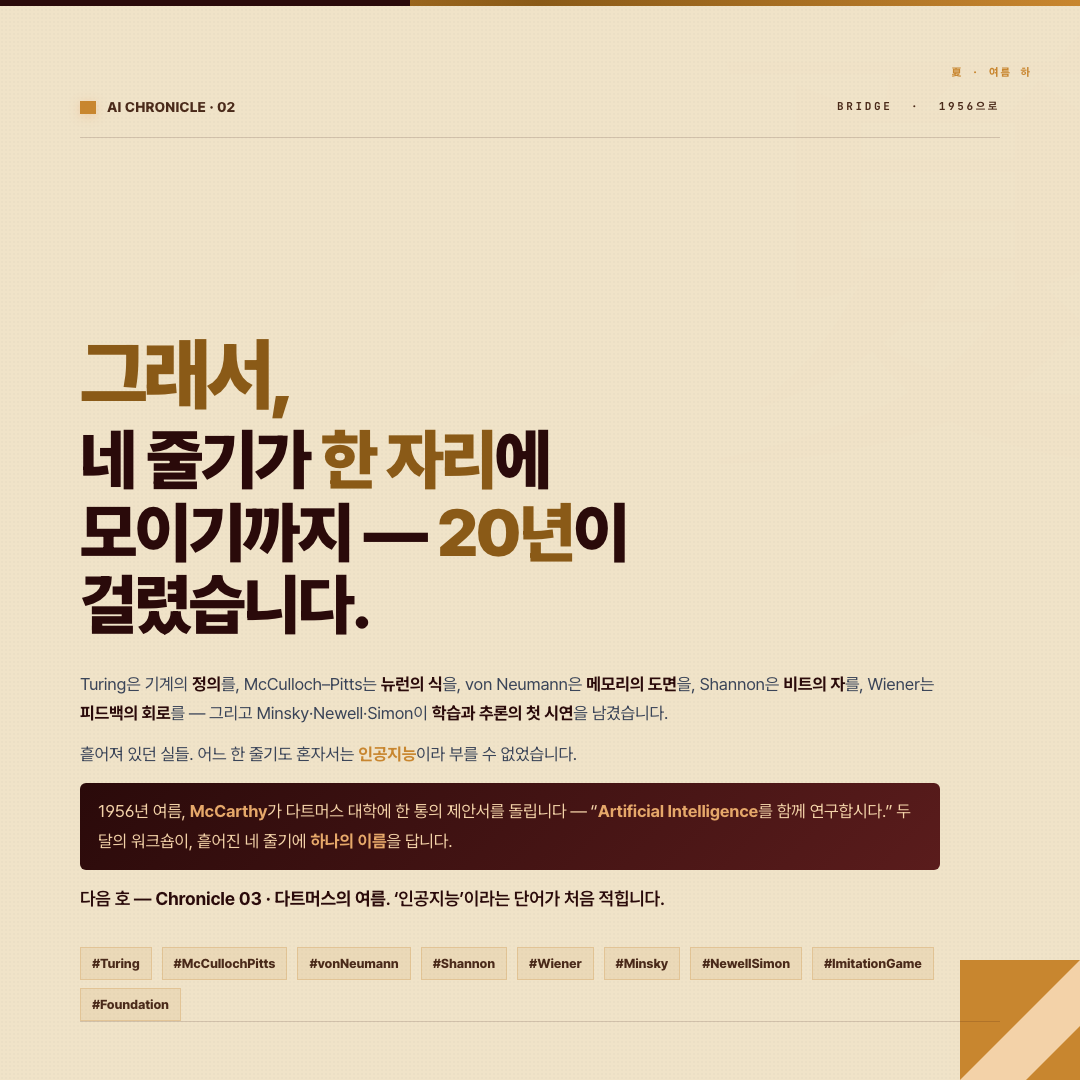
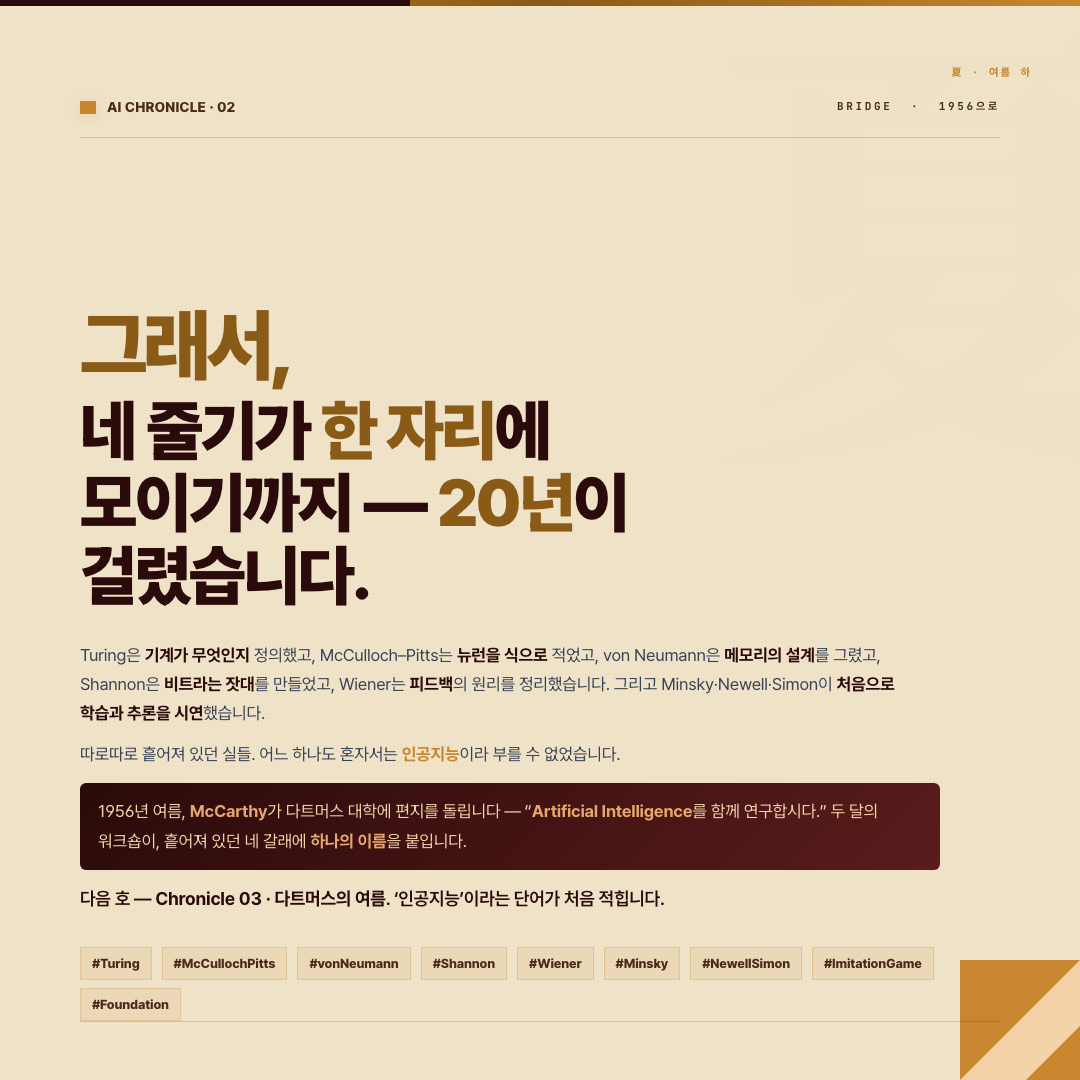
fix(chronicle 01·02): 본문 톤 다듬기 — 번역투/한자어 명사 연결을 자연스러운 문장으로

diff --git a/chronicle-2-cards-tape/06-wiener.html b/chronicle-2-cards-tape/06-wiener.html
@@ -20,10 +20,10 @@
     <div class="split" style="grid-template-columns:1.1fr 1fr; gap:22px; margin-top:14px;">
       <div class="left">
         <p class="body-sm" style="font-size:14px; line-height:1.65;">같은 1948년, MIT의 수학자 <b>Norbert Wiener</b>가 책 한 권을 냅니다 — 『<em>Cybernetics: Or Control and Communication in the Animal and the Machine</em>』.</p>
-        <p class="body-sm" style="font-size:14px; line-height:1.65; margin-top:8px;">핵심은 <em>피드백 루프</em>. 출력의 일부를 다시 입력으로 돌려, 기계가 <b>자기 행동의 결과</b>를 보고 다음을 고치게 합니다. 미사일 추적기·온도 조절기·심장박동 — 살아있는 것과 기계가 같은 회로 위에서 만났습니다.</p>
+        <p class="body-sm" style="font-size:14px; line-height:1.65; margin-top:8px;">핵심은 <em>피드백 루프</em>. 결과의 일부를 다시 입력으로 돌려, 기계가 <b>자기가 한 일의 결과</b>를 보고 다음 행동을 고치게 합니다. 미사일 추적기·온도 조절기·심장박동 — 생명과 기계가 같은 원리로 묶였습니다.</p>
         <div style="margin-top:10px; padding:9px 12px; background:rgba(42,10,10,0.07); border-left:3px solid var(--ink-soft);">
           <div style="font-size:9.5px; letter-spacing:1.5px; color:var(--ink-soft); font-weight:700;">제목 · 어원</div>
-          <div style="font-size:12px; line-height:1.5;"><em>Cybernetics</em> = 그리스어 <em>κυβερνήτης</em>(키잡이). 배의 키를 잡는 사람처럼, 기계가 자신을 조향한다는 뜻.</div>
+          <div style="font-size:12px; line-height:1.5;"><em>Cybernetics</em>는 그리스어 <em>κυβερνήτης</em>(키잡이)에서 왔습니다. 배의 키를 잡듯, 기계가 자기를 직접 조종한다는 뜻.</div>
         </div>
       </div>
       <div class="right">
@@ -33,7 +33,7 @@
     </div>
 
     <p class="body-sm" style="font-size:14px; line-height:1.6; margin-top:12px; color:var(--ink-soft);">
-      Shannon이 신호를 <em>측정</em>했다면, Wiener는 신호를 <em>되먹였습니다</em>. 두 1948년이 — 1956년 다트머스의 두 다리.
+      Shannon이 신호를 <em>잴 수 있게</em> 했다면, Wiener는 신호를 <em>다시 입력으로 돌려</em> 보냈습니다. 1948년의 두 책이 — 1956년 다트머스로 가는 두 길이 됩니다.
     </p>
 
     <div style="margin-top:14px; display:grid; grid-template-columns:repeat(3, 1fr); gap:10px;">

diff --git a/chronicle-2-cards-tape/09-bridge.html b/chronicle-2-cards-tape/09-bridge.html
@@ -26,13 +26,13 @@
     </h1>
 
     <p class="closing">
-      Turing은 기계의 <b>정의</b>를, McCulloch–Pitts는 <b>뉴런의 식</b>을, von Neumann은 <b>메모리의 도면</b>을, Shannon은 <b>비트의 자</b>를, Wiener는 <b>피드백의 회로</b>를 — 그리고 Minsky·Newell·Simon이 <b>학습과 추론의 첫 시연</b>을 남겼습니다.
+      Turing은 <b>기계가 무엇인지</b> 정의했고, McCulloch–Pitts는 <b>뉴런을 식으로</b> 적었고, von Neumann은 <b>메모리의 설계</b>를 그렸고, Shannon은 <b>비트라는 잣대</b>를 만들었고, Wiener는 <b>피드백</b>의 원리를 정리했습니다. 그리고 Minsky·Newell·Simon이 <b>처음으로 학습과 추론을 시연</b>했습니다.
     </p>
     <p class="closing" style="margin-top:12px;">
-      흩어져 있던 실들. 어느 한 줄기도 혼자서는 <em>인공지능</em>이라 부를 수 없었습니다.
+      따로따로 흩어져 있던 실들. 어느 하나도 혼자서는 <em>인공지능</em>이라 부를 수 없었습니다.
     </p>
     <p class="closing" style="margin-top:14px; padding:14px 18px; background:linear-gradient(135deg, #2a0a0a 0%, #5a1c1c 100%); color:#f3d2a8; border-radius:6px;">
-      1956년 여름, <em style="color:#e6a86a;">McCarthy</em>가 다트머스 대학에 한 통의 제안서를 돌립니다 — “<em style="color:#e6a86a;">Artificial Intelligence</em>를 함께 연구합시다.” 두 달의 워크숍이, 흩어진 네 줄기에 <em style="color:#e6a86a;">하나의 이름</em>을 답니다.
+      1956년 여름, <em style="color:#e6a86a;">McCarthy</em>가 다트머스 대학에 편지를 돌립니다 — “<em style="color:#e6a86a;">Artificial Intelligence</em>를 함께 연구합시다.” 두 달의 워크숍이, 흩어져 있던 네 갈래에 <em style="color:#e6a86a;">하나의 이름</em>을 붙입니다.
     </p>
     <p class="closing" style="margin-top:14px; font-size:18px; color:var(--navy); font-weight:600;">
       다음 호 — <b>Chronicle 03 · 다트머스의 여름</b>. ‘인공지능’이라는 단어가 처음 적힙니다.

diff --git a/chronicle-2-cards-tape/05-shannon.html b/chronicle-2-cards-tape/05-shannon.html
@@ -24,7 +24,7 @@
       </div>
       <div class="right">
         <p class="body-sm" style="font-size:14px; line-height:1.65;">벨 연구소의 32살 수학자가 한 논문을 발표합니다 — 「A Mathematical Theory of Communication」. 그 안에서 그는 ‘<em>정보</em>’를 처음으로 측정 가능한 양으로 정의합니다.</p>
-        <p class="body-sm" style="font-size:14px; line-height:1.65; margin-top:8px;">단위는 <b>비트(bit)</b>. 동전의 앞·뒤, 0·1, 예·아니오. 이 한 단위로 음악·사진·언어 — 세상의 모든 신호를 같은 자에 올릴 수 있게 됩니다.</p>
+        <p class="body-sm" style="font-size:14px; line-height:1.65; margin-top:8px;">단위는 <b>비트(bit)</b>. 동전의 앞뒤, 0과 1, 예와 아니오. 이 한 단위만 있으면 음악도 사진도 글도 — 세상 어떤 신호든 같은 잣대로 잴 수 있게 됩니다.</p>
         <div style="margin-top:10px; padding:9px 12px; background:rgba(200,134,47,0.10); border-left:3px solid var(--brand);">
           <div style="font-size:9.5px; letter-spacing:1.5px; color:var(--brand-deep); font-weight:700;">또 하나 · 1937</div>
           <div style="font-size:12px; line-height:1.5; color:var(--ink-soft);">Shannon은 11년 앞서 석사 논문에서 <b>Boole의 논리</b>를 <em>전기 스위치 회로</em>에 매핑했습니다. 0/1과 트랜지스터의 결혼식 — 그 신부였습니다.</div>
@@ -33,7 +33,7 @@
     </div>
 
     <p class="body-sm" style="font-size:14px; line-height:1.6; margin-top:12px; color:var(--ink-soft);">
-      Boole의 1854 논리, McCulloch–Pitts의 1943 뉴런, Turing의 1936 테이프 — 세 흐름이 모두 <em>비트 위에서</em> 합류합니다. 디지털 시대의 첫 글자.
+      Boole의 1854년 논리, McCulloch–Pitts의 1943년 뉴런, Turing의 1936년 테이프 — 세 흐름이 모두 <em>비트라는 한 단위</em> 위에서 만납니다. 디지털 시대의 첫 글자.
     </p>
 
     <div style="margin-top:14px; display:grid; grid-template-columns:repeat(3, 1fr); gap:10px;">

diff --git a/chronicle-2-cards-tape/07-imitation.html b/chronicle-2-cards-tape/07-imitation.html
@@ -24,7 +24,7 @@
           “‘<b>기계가 생각할 수 있는가</b>’라는 질문은 너무 의미 없습니다. 다른 질문으로 바꿉시다.”
           <div style="font-size:11px; margin-top:5px; opacity:0.6; font-style:normal;">— Turing, 1950</div>
         </div>
-        <p class="body-sm" style="font-size:14px; line-height:1.65; margin-top:10px;">대신 그는 <b>Imitation Game</b>을 제안합니다. 심판이 두 ‘상대’와 텍스트로 대화한다 — 한 쪽은 사람, 한 쪽은 기계. 심판이 누가 누구인지 <em>맞추지 못한다면</em>, 그 기계는 ‘생각하는 것과 구별 불가능’입니다.</p>
+        <p class="body-sm" style="font-size:14px; line-height:1.65; margin-top:10px;">대신 그는 <b>Imitation Game</b>을 제안합니다. 심판이 두 상대와 글로만 대화합니다 — 한쪽은 사람, 한쪽은 기계. 심판이 누가 누구인지 <em>가려내지 못한다면</em>, 그 기계는 ‘생각하는 것과 다를 게 없다’는 뜻입니다.</p>
       </div>
       <div class="right">
         <!-- Imitation Game 다이어그램 SVG -->
@@ -67,7 +67,7 @@
       </div>
       <div style="padding:11px 13px; background:rgba(255,255,255,0.55); border-top:2px solid var(--ink-mid);">
         <div style="font-size:9.5px; letter-spacing:1.5px; color:var(--ink-mid); font-weight:700;">DETAIL</div>
-        <div style="font-size:12px; line-height:1.5; color:var(--ink);">‘러브레이스의 반론’(1843)에 정면으로 답한 절(節)이 있습니다. <b>Note G</b>에 대한 113년 뒤의 응답.</div>
+        <div style="font-size:12px; line-height:1.5; color:var(--ink);">‘러브레이스의 반론’(1843)에 정면으로 답한 대목이 있습니다. <b>Note G</b>에 대한 113년 뒤의 답.</div>
       </div>
       <div style="padding:11px 13px; background:linear-gradient(135deg, #2a0a0a, #5a1c1c); color:#f3d2a8;">
         <div style="font-size:9.5px; letter-spacing:1.5px; color:#e6a86a; font-weight:700;">ECHO</div>

diff --git a/chronicle-1-cards-cogwheel/07-logic.html b/chronicle-1-cards-cogwheel/07-logic.html
@@ -33,12 +33,12 @@
     <div style="margin-top:14px; padding:12px 16px; background:linear-gradient(135deg, #2a0a0a 0%, #5a1c1c 100%); color:#f3d2a8; border-radius:6px;">
       <div style="font-size:10.5px; letter-spacing:0.18em; color:#e6a86a; font-weight:800;">왜 중요했나</div>
       <div style="font-size:13.5px; line-height:1.6; margin-top:6px;">
-        톱니바퀴는 <b style="color:#fff5e1;">계산</b>은 했지만 <b style="color:#fff5e1;">추론</b>은 하지 못했습니다. Boole과 Frege는 — <em style="color:#e6a86a; font-style:italic;">추론 자체를 계산으로 바꿀 수 있다</em>는 가능성을 열었습니다. 기계가 아직 없을 뿐, 언어는 준비됐습니다.
+        톱니바퀴는 <b style="color:#fff5e1;">계산</b>은 했지만 <b style="color:#fff5e1;">생각하는 일</b>은 못 했습니다. Boole과 Frege는 — <em style="color:#e6a86a; font-style:italic;">생각도 계산으로 바꿀 수 있다</em>는 가능성을 열었습니다. 기계는 아직 없었지만, 그 기계가 쓸 ‘언어’는 미리 준비된 셈입니다.
       </div>
     </div>
 
     <p class="body-sm" style="font-size:13.5px; line-height:1.55; margin-top:10px; color:var(--ink-soft);">
-      이 두 책 사이의 25년이, 다음 시대의 <em>설계도면</em>이 됩니다. ↩ Series LINGUA 09에서 다시 만나는 이름들입니다.
+      이 두 책 사이의 25년이 다음 시대의 <em>설계도</em>가 됩니다. ↩ Series LINGUA 09에서 다시 만나는 이름들입니다.
     </p>
 
     <div style="margin-top:14px; display:grid; grid-template-columns:repeat(3, 1fr); gap:10px;">

diff --git a/chronicle-1-cards-cogwheel/04-jacquard.html b/chronicle-1-cards-cogwheel/04-jacquard.html
@@ -20,7 +20,7 @@
     <div class="split" style="grid-template-columns:1.2fr 1fr; gap:20px; margin-top:14px;">
       <div class="left">
         <p class="body-sm" style="font-size:14px; line-height:1.65;">리옹의 직물공 자카르가 직조기에 <b>구멍 뚫린 카드 묶음</b>을 매답니다. 카드 한 장이 한 줄의 패턴을 결정합니다 — 구멍이 있으면 실이 올라가고, 없으면 내려갑니다.</p>
-        <p class="body-sm" style="font-size:14px; line-height:1.65; margin-top:8px;">한 사람의 마스터 직공이 한 달 걸리던 자수를, 카드를 갈아 끼우는 것만으로 다른 패턴이 나왔습니다. <em>도구가 데이터를 따라가는 첫 사례</em>였습니다.</p>
+        <p class="body-sm" style="font-size:14px; line-height:1.65; margin-top:8px;">숙련공이 한 달 걸리던 자수를, 카드를 갈아 끼우기만 하면 다른 무늬로 짤 수 있게 됐습니다. <em>기계가 카드를 ‘읽고’ 일하는 첫 사례</em>였습니다.</p>
         <div style="margin-top:10px; padding:9px 12px; background:rgba(200,134,47,0.10); border-left:3px solid var(--brand);">
           <div style="font-size:9.5px; letter-spacing:1.5px; color:var(--brand-deep); font-weight:700;">계보 · 100년 뒤</div>
           <div style="font-size:12px; line-height:1.5; color:var(--ink-soft);">자카르의 펀치카드는 1890 미국 인구조사 Hollerith 머신으로, 1944 IBM Mark I로, 1960~70년대 메인프레임의 입력 카드로 이어집니다.</div>

diff --git a/chronicle-1-cards-cogwheel/06-ada.html b/chronicle-1-cards-cogwheel/06-ada.html
@@ -26,7 +26,7 @@
         <p class="body-sm" style="font-size:14px; line-height:1.65;">시인 바이런의 딸. 27살의 에이다는 배비지의 해석기관 설명서를 번역하다가, <b>주석</b>을 본문보다 길게 붙였습니다. 그 주석 안에 — 베르누이 수를 계산하는 단계별 절차가 적혀 있었습니다.</p>
         <p class="body-sm" style="font-size:14px; line-height:1.65; margin-top:8px;">사람들은 후일 이를 <em>역사상 첫 컴퓨터 프로그램</em>이라 부릅니다. 기계는 만들어지지도 않았는데, 프로그램이 먼저 쓰인 셈입니다.</p>
         <div class="quote" style="margin-top:12px; font-size:16.5px; line-height:1.55; padding:12px 18px;">
-          “해석기관은 무엇이든 <b>창시</b>하지 못합니다. 우리가 그것에게 명령하는 법을 아는 것만 수행할 뿐입니다.”
+          “해석기관은 스스로 <b>새것을 만들지</b> 못합니다. 우리가 시킬 줄 아는 것만 그대로 해낼 뿐입니다.”
           <div style="font-size:11px; margin-top:6px; opacity:0.6; font-style:normal;">— Ada Lovelace, Note G, 1843</div>
         </div>
       </div>

diff --git a/chronicle-1-cards-cogwheel/09-bridge.html b/chronicle-1-cards-cogwheel/09-bridge.html
@@ -32,7 +32,7 @@
       <b>한 가지가 빠져 있었습니다</b> — ‘계산’과 ‘생각’은 같은 것인가. 200년 동안 어느 톱니바퀴도 그 질문에 답하지 못했습니다.
     </p>
     <p class="closing" style="margin-top:14px; padding:14px 18px; background:linear-gradient(135deg, #2a0a0a 0%, #5a1c1c 100%); color:#f3d2a8; border-radius:6px;">
-      1936년, 케임브리지의 24살 청년이 종이 한 장에 ‘<em style="color:#e6a86a;">기계</em>’를 그립니다. 무한히 긴 종이테이프 하나, 그것을 읽고 쓰는 머리 하나 — 그 추상의 도면이, 톱니바퀴 200년을 이깁니다.
+      1936년, 케임브리지의 24살 청년이 종이 한 장에 ‘<em style="color:#e6a86a;">기계</em>’를 그립니다. 무한히 긴 종이테이프 하나와 그 위를 오가며 읽고 쓰는 머리 하나 — 종이에 그린 그 그림이 톱니바퀴 200년을 뛰어넘습니다.
     </p>
     <p class="closing" style="margin-top:14px; font-size:18px; color:var(--navy); font-weight:600;">
       다음 호 — <b>Chronicle 02 · 종이테이프 위의 기계</b>. Alan Turing이 답을 던집니다.

diff --git a/chronicle-2-cards-tape/08-minsky-simon.html b/chronicle-2-cards-tape/08-minsky-simon.html
@@ -44,7 +44,7 @@
       </div>
       <div style="padding:11px 13px; background:rgba(255,255,255,0.55); border-top:2px solid var(--ink-mid);">
         <div style="font-size:9.5px; letter-spacing:1.5px; color:var(--ink-mid); font-weight:700;">DETAIL</div>
-        <div style="font-size:12px; line-height:1.5; color:var(--ink);">Simon은 1956년 강의에서 — “<b>10년 안에 컴퓨터가 체스 챔피언을 이길 것</b>”이라 단언. 41년 걸렸습니다.</div>
+        <div style="font-size:12px; line-height:1.5; color:var(--ink);">Simon은 1956년 강의에서 — “<b>10년 안에 컴퓨터가 체스 챔피언을 이길 것</b>”이라 장담. 실제로는 41년 걸렸습니다.</div>
       </div>
       <div style="padding:11px 13px; background:linear-gradient(135deg, #2a0a0a, #5a1c1c); color:#f3d2a8;">
         <div style="font-size:9.5px; letter-spacing:1.5px; color:#e6a86a; font-weight:700;">ECHO</div>

diff --git a/chronicle-2-cards-tape/04-vonneumann.html b/chronicle-2-cards-tape/04-vonneumann.html
@@ -33,7 +33,7 @@
     </div>
 
     <p class="body-sm" style="font-size:14px; line-height:1.6; margin-top:12px; color:var(--ink-soft);">
-      Babbage가 100년 전에 <em>설계만</em> 한 것을, 폰 노이만은 <em>현실의 도면</em>으로 옮겼습니다. 종이 위의 튜링 기계가 진공관 위에 내려앉는 다리.
+      Babbage가 100년 전에 <em>설계만</em> 했던 것을, 폰 노이만이 <em>실제로 만들 수 있는 도면</em>으로 그렸습니다. 종이 위의 튜링 기계가 진공관 위로 내려앉는 순간.
     </p>
 
     <div style="margin-top:14px; display:grid; grid-template-columns:repeat(3, 1fr); gap:10px;">
